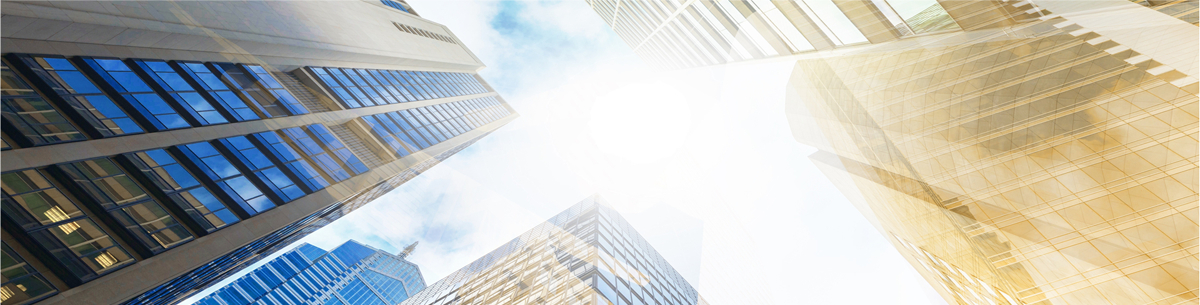
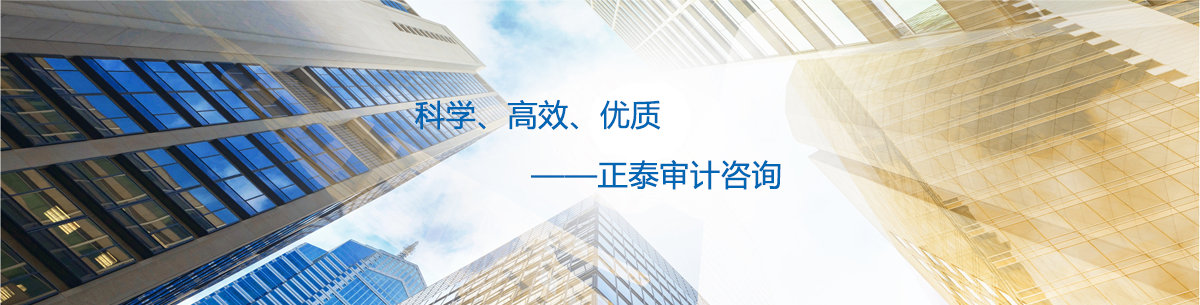
审计咨询修改

Changed region(s): [[0.3392, 0.3246, 0.555, 0.4426], [0.4317, 0.5311, 0.6783, 0.6197]]

diff --git a/WEB-INF/t/cms/sjzx/sjzx/index/index.html b/WEB-INF/t/cms/sjzx/sjzx/index/index.html
@@ -30,9 +30,8 @@
             <div class="banner" id="banner">
                 <div class="banneritem-w clearfix">
                     <div class="item-cnt clearfix" id="itemCnt">
-                        <div class="item on" style="background-image: url(/${res}/imgs/shenji2.jpg);"></div>
+                        <div class="item on" style="background-image: url(/${res}/imgs/shenji4.jpg);"></div>
                         <div class="item" style="background-image: url(/${res}/imgs/shenji3.jpg);"></div>
-                        <div class="item" style="background-image: url(/${res}/imgs/shenji4.jpg);"></div>
                         <div class="item" style="background-image: url(/${res}/imgs/shenji5.jpg);"></div>
                         <!--<div class="item" style="background-image: url(/${res}/imgs/ad-5.jpg);"></div>-->
                     </div>
@@ -40,7 +39,6 @@
                     <div class="arrow arrow-r" id="arrowR"></div>
                     <div class="progress-bar" id="progressBar">
                         <div class="progress-bar-dian on"></div>
-                        <div class="progress-bar-dian"></div>
                         <div class="progress-bar-dian"></div>
                         <div class="progress-bar-dian"></div>
                         <!-- <div class="progress-bar-dian"></div>
@@ -59,7 +57,7 @@
                 }
 
                 function itemGo() {
-                    if (idx >= 4 || idx < 0) {
+                    if (idx >= 3 || idx < 0) {
                         idx = 0
                     }
                     $('#itemCnt .item').eq(idx).addClass('on').siblings().removeClass('on')

diff --git a/r/cms/sjzx/sjzx/css/index.css b/r/cms/sjzx/sjzx/css/index.css
@@ -29,7 +29,7 @@ img {border: 0;vertical-align: middle;-ms-interpolation-mode: bicubic}
 .index .banner .banneritem-w .item{opacity: 0;z-index: -1; background: 50% 50% no-repeat;background-size: contain;float: left;width: 100%;position: absolute;transition: opacity .2s linear;}
 .index .banner .banneritem-w .item:after,
 .index .banner .banneritem-w .item-cnt:after{display: block;content: '';padding-top: 305px;}
-.index .banner .banneritem-w .item.on{opacity: 1;z-index: 9}
+.index .banner .banneritem-w .item.on{opacity: 1;z-index:-1;}
 
 /* ===== .index .w-2 ===== */
 .index .w-2{display: flex;background-color: #ffffff;}
